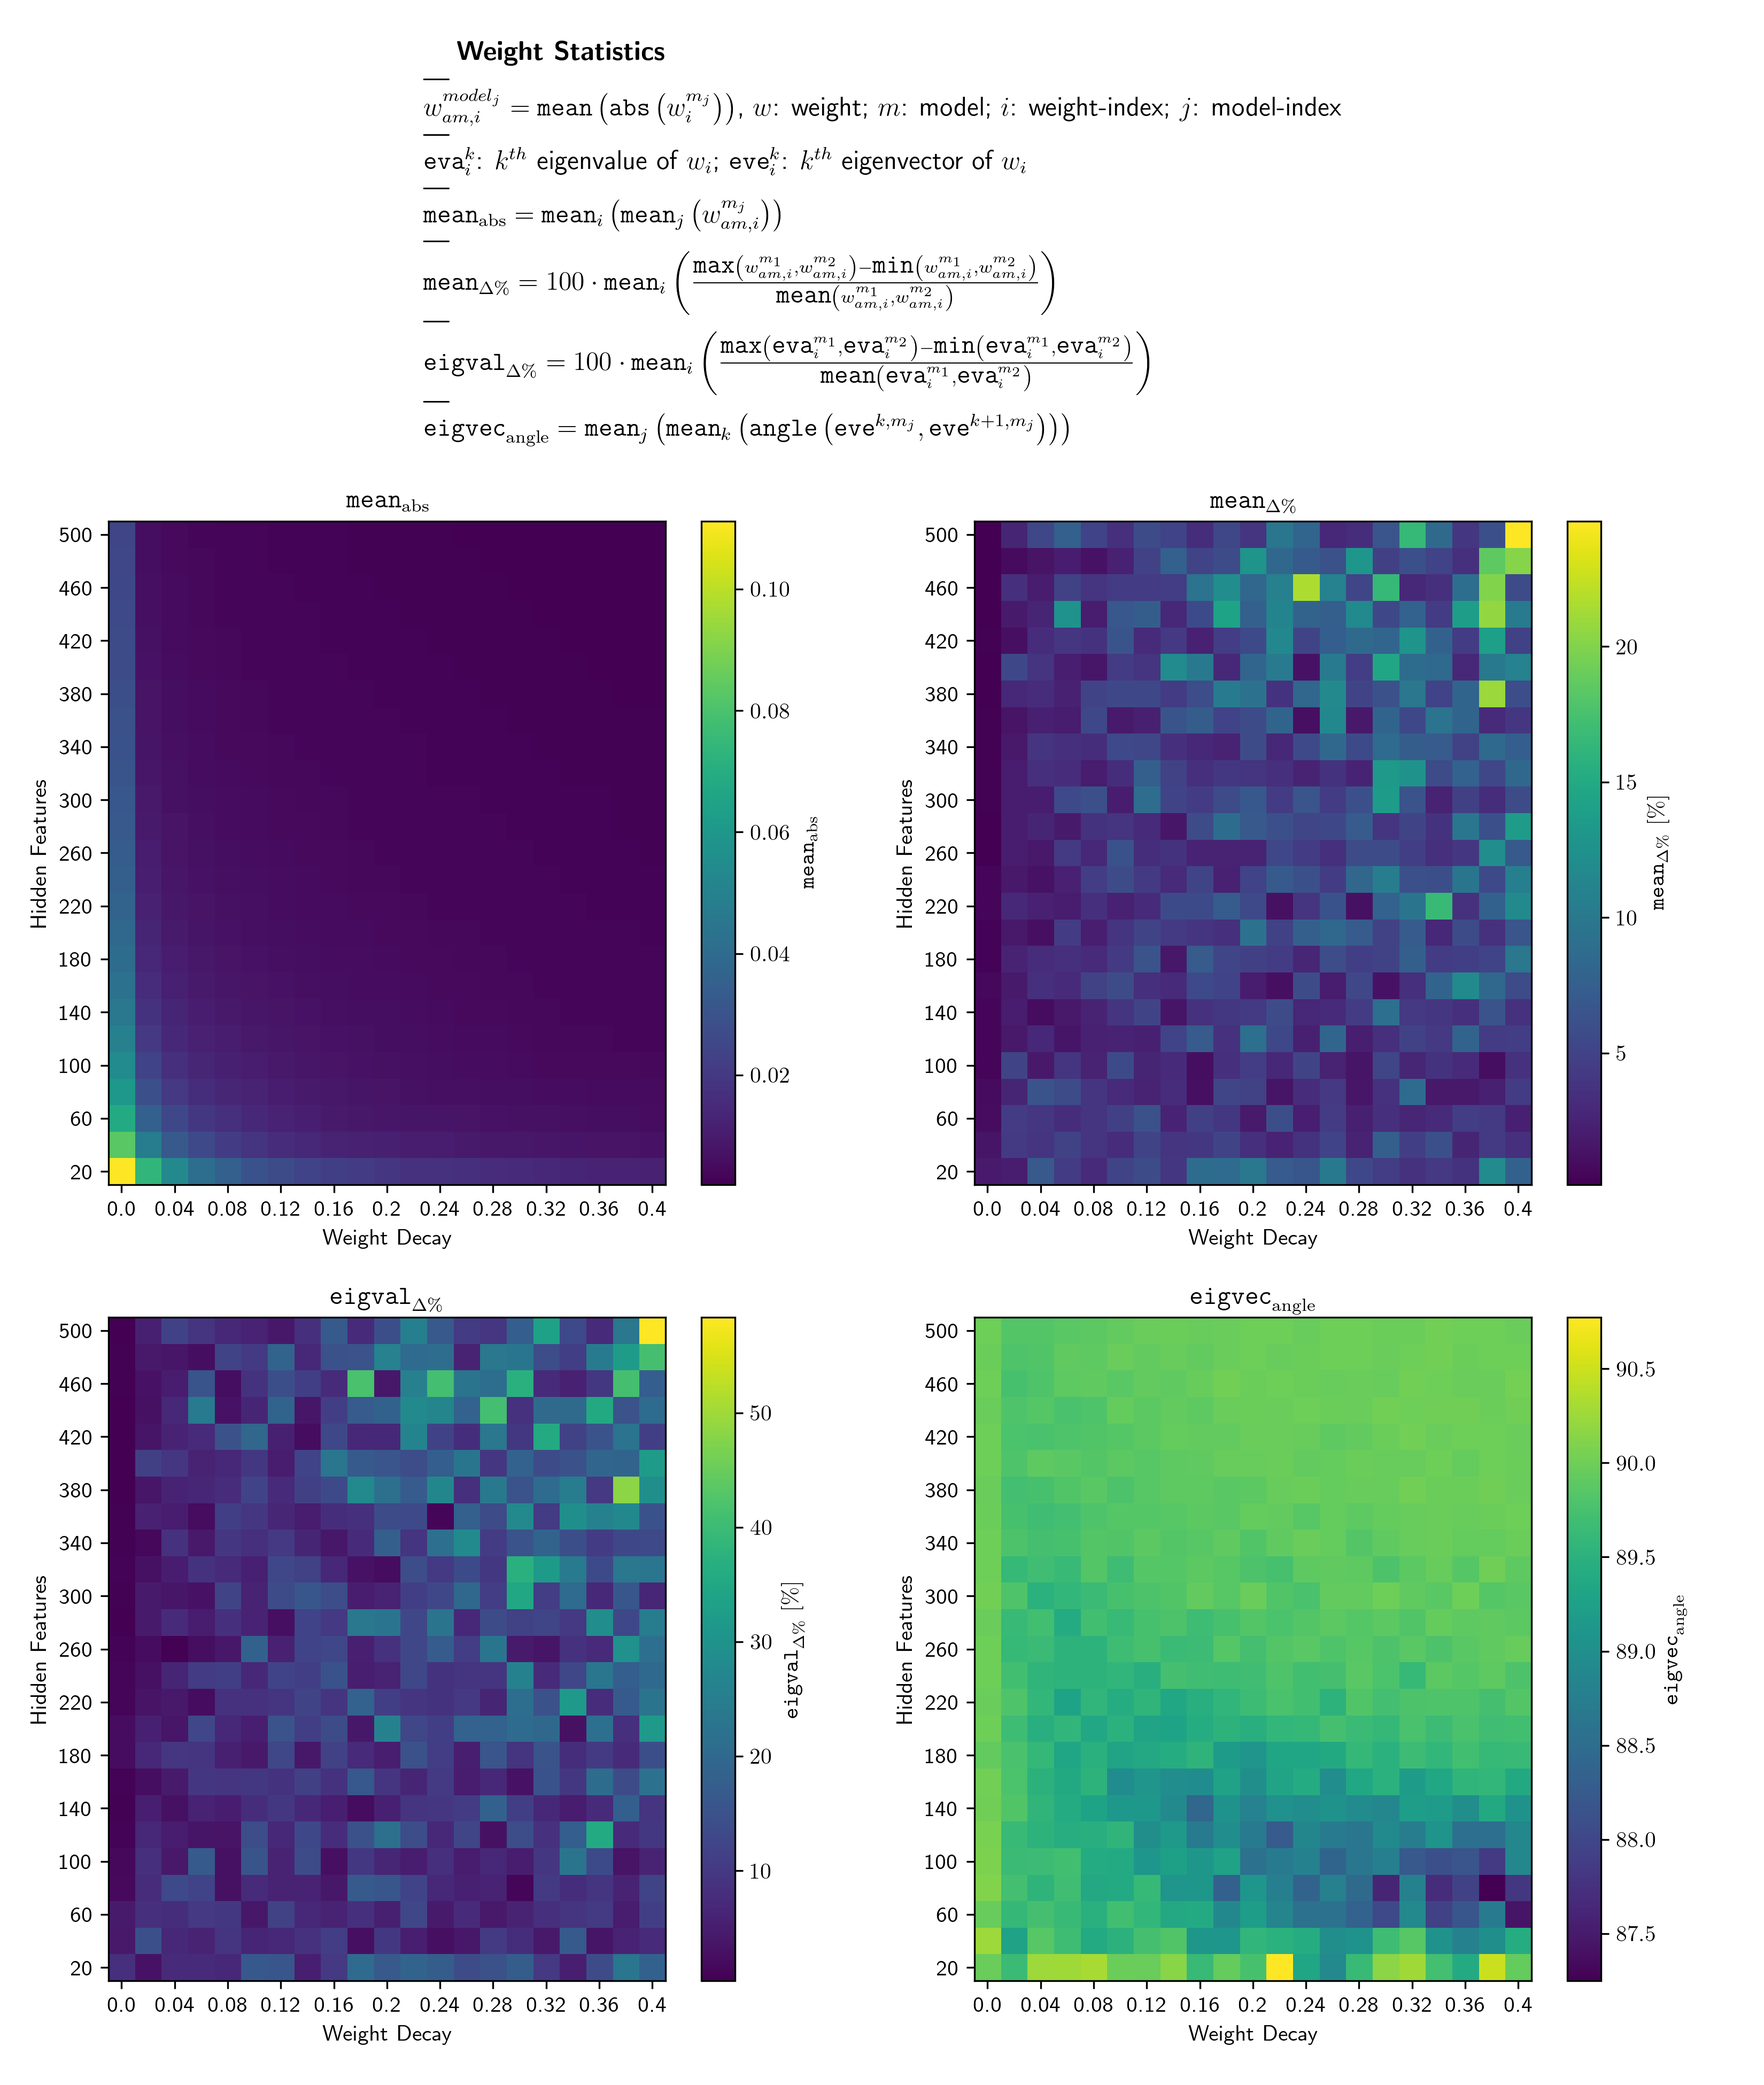
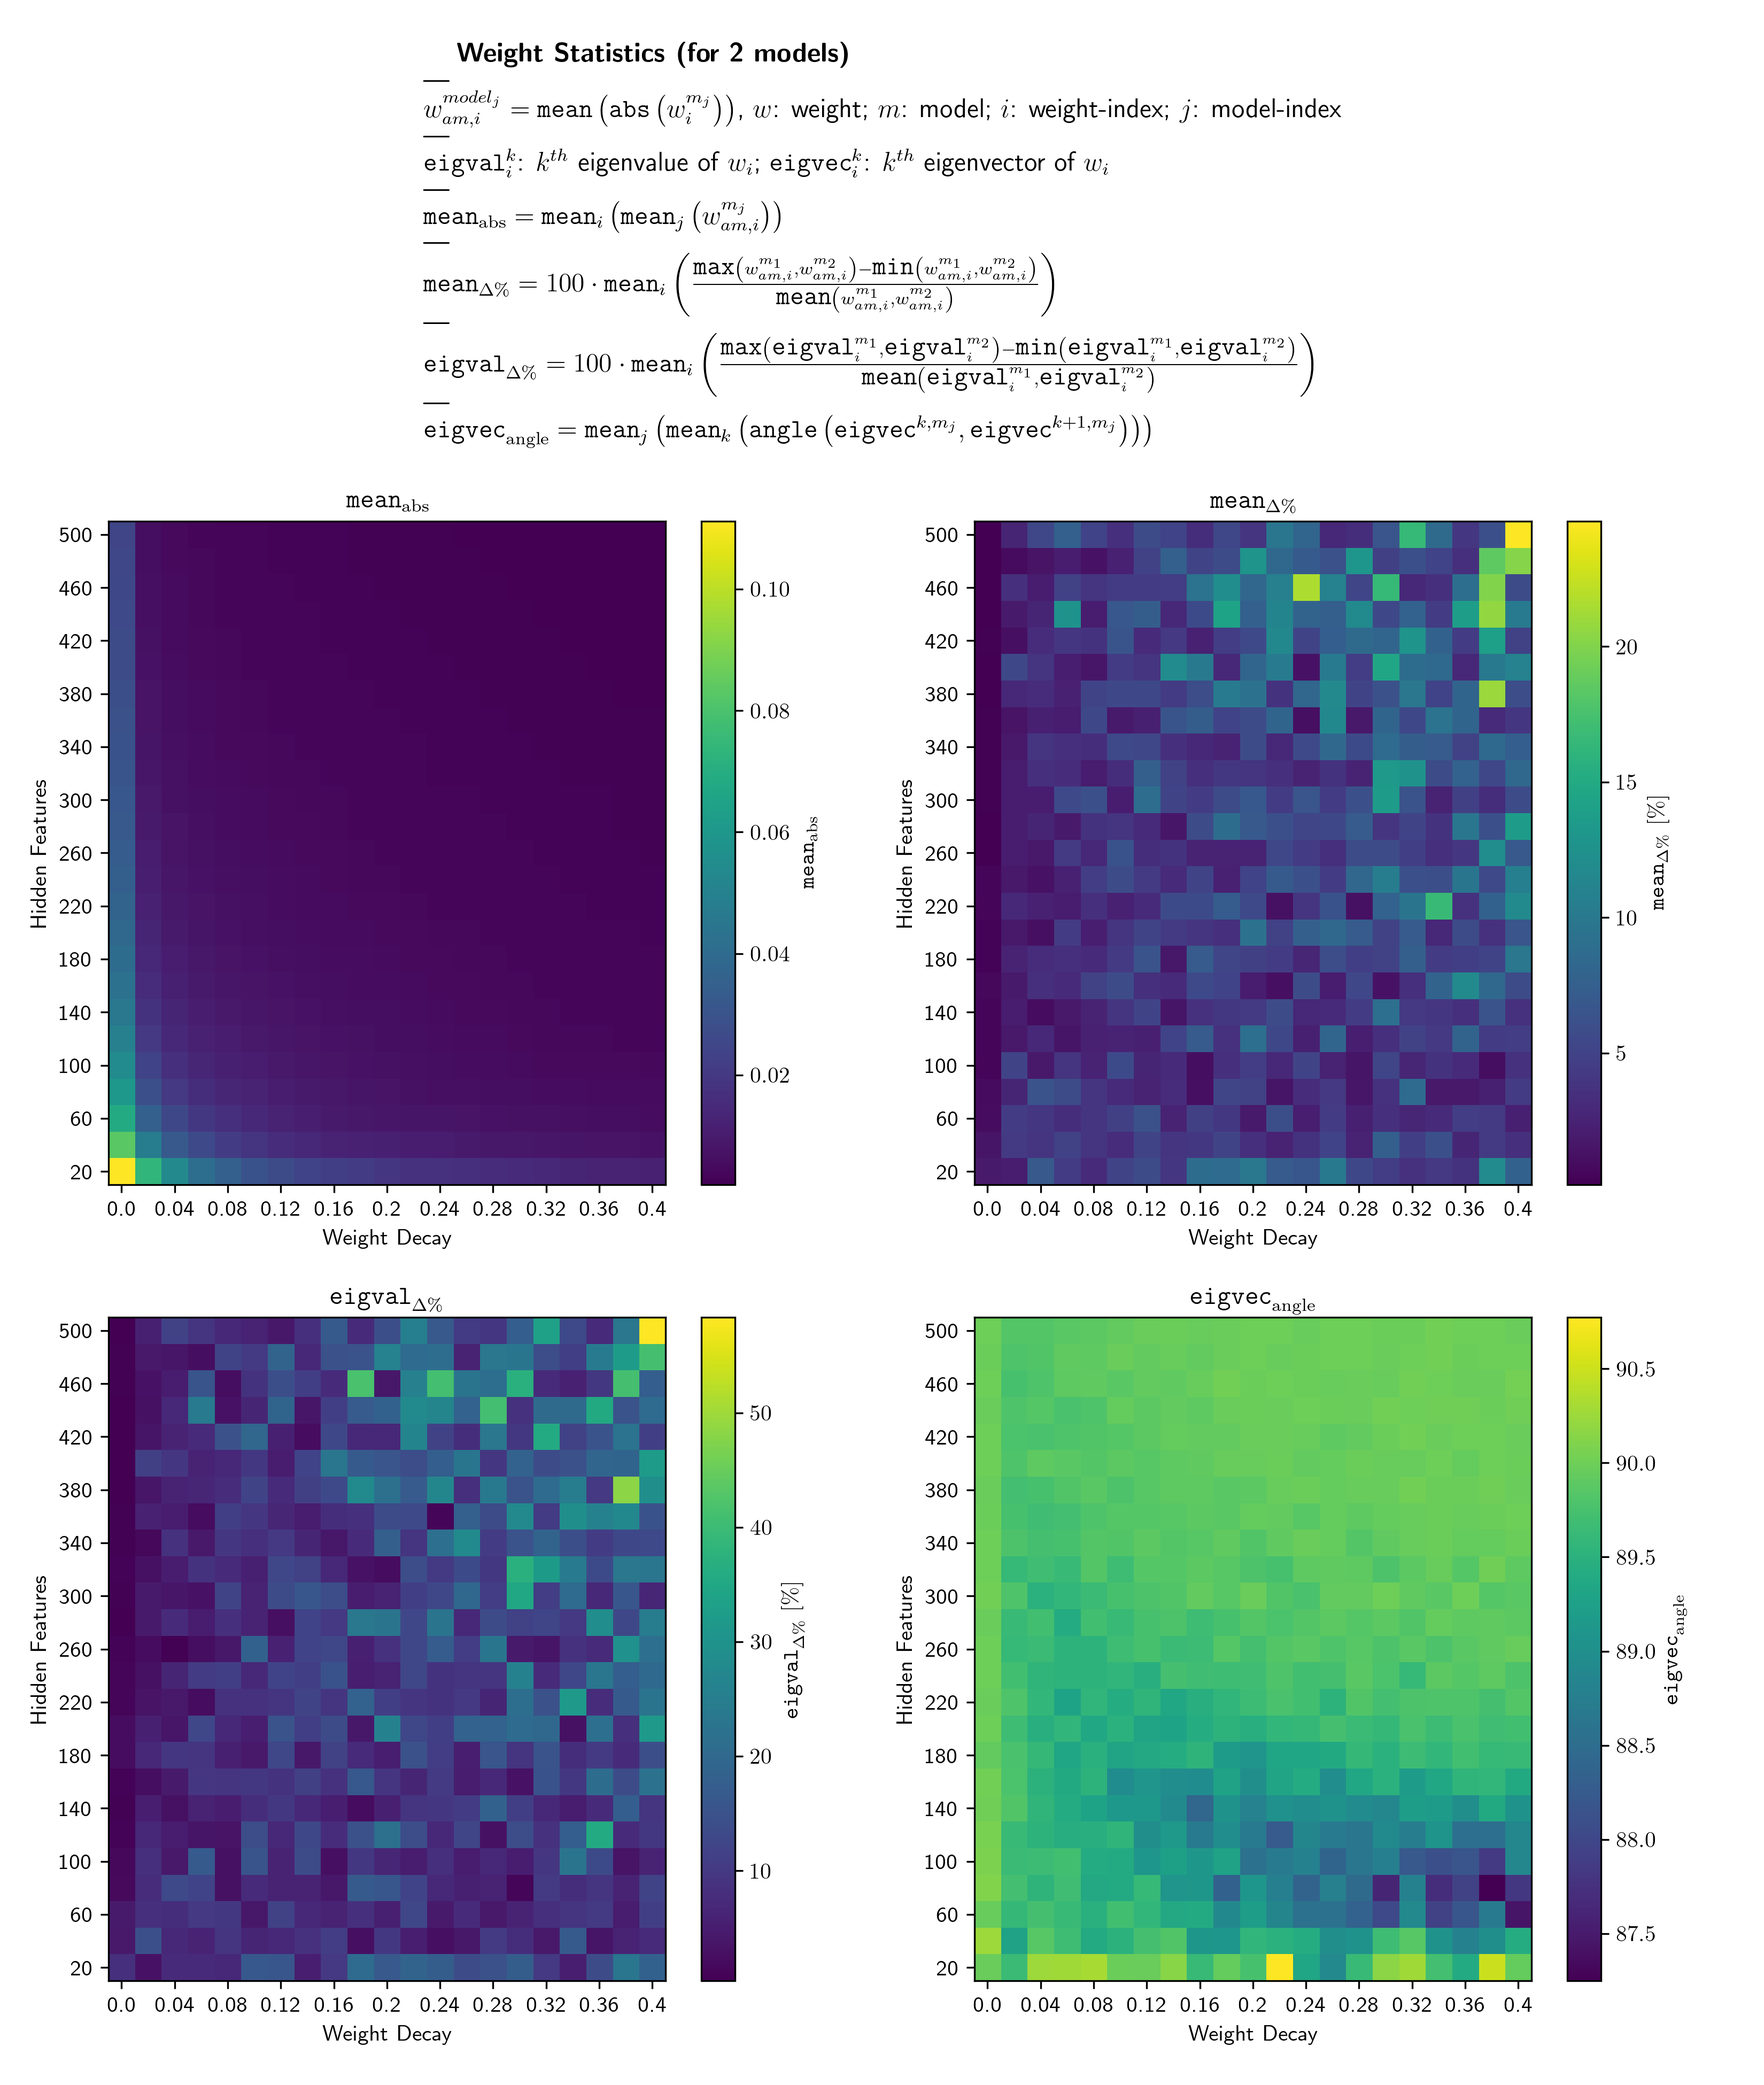
Slightly improve image

diff --git a/mlp/plot_results.py b/mlp/plot_results.py
@@ -445,25 +445,25 @@ def plot_abs_weight_mean_diff_heatmap() -> None:
         r'$\texttt{eigval}_{\Delta\%} '
         r'= 100 \cdot \texttt{mean}_i\left('
         r'\frac{'
-        r'\texttt{max}\left( \texttt{eva}_i^{m_1}, \texttt{eva}_i^{m_2} \right) '
-        r'- \texttt{min}\left( \texttt{eva}_i^{m_1}, \texttt{eva}_i^{m_2} \right)'
-        r'}{\texttt{mean}\left( \texttt{eva}_i^{m_1}, \texttt{eva}_i^{m_2} \right)}'
+        r'\texttt{max}\left( \texttt{eigval}_i^{m_1}, \texttt{eigval}_i^{m_2} \right) '
+        r'- \texttt{min}\left( \texttt{eigval}_i^{m_1}, \texttt{eigval}_i^{m_2} \right)'
+        r'}{\texttt{mean}\left( \texttt{eigval}_i^{m_1}, \texttt{eigval}_i^{m_2} \right)}'
         r'\right)$'
     )
     eigvec_angle_title = (
         r'$\texttt{eigvec}_{\mathrm{angle}} '
         r'= \texttt{mean}_j\left('
         r'\texttt{mean}_k\left('
-        r'\texttt{angle}\left(\texttt{eve}^{k,m_j}, \texttt{eve}^{k+1,m_j}\right)'
+        r'\texttt{angle}\left(\texttt{eigvec}^{k,m_j}, \texttt{eigvec}^{k+1,m_j}\right)'
         r'\right)'
         r'\right)$'
     )
     fig.suptitle(
-        r'\textbf{Weight Statistics} \\---\\ '
+        r'\textbf{Weight Statistics (for 2 models)} \\---\\ '
         r'$w_{am,i}^{model_j} = \texttt{mean}\left(\texttt{abs}\left(w_i^{m_j}\right)\right)$, '
         r'$w$: weight; $m$: model; $i$: weight-index; $j$: model-index'
         r'\\---\\'
-        r'$\texttt{eva}_i^k$: $k^{th}$ eigenvalue of $w_i$; $\texttt{eve}_i^k$: $k^{th}$ eigenvector of $w_i$'
+        r'$\texttt{eigval}_i^k$: $k^{th}$ eigenvalue of $w_i$; $\texttt{eigvec}_i^k$: $k^{th}$ eigenvector of $w_i$'
         r' \\---\\ ' + mean_abs_title +
         r' \\---\\ ' + mean_delta_title +
         r' \\---\\ ' + eigval_delta_title +
